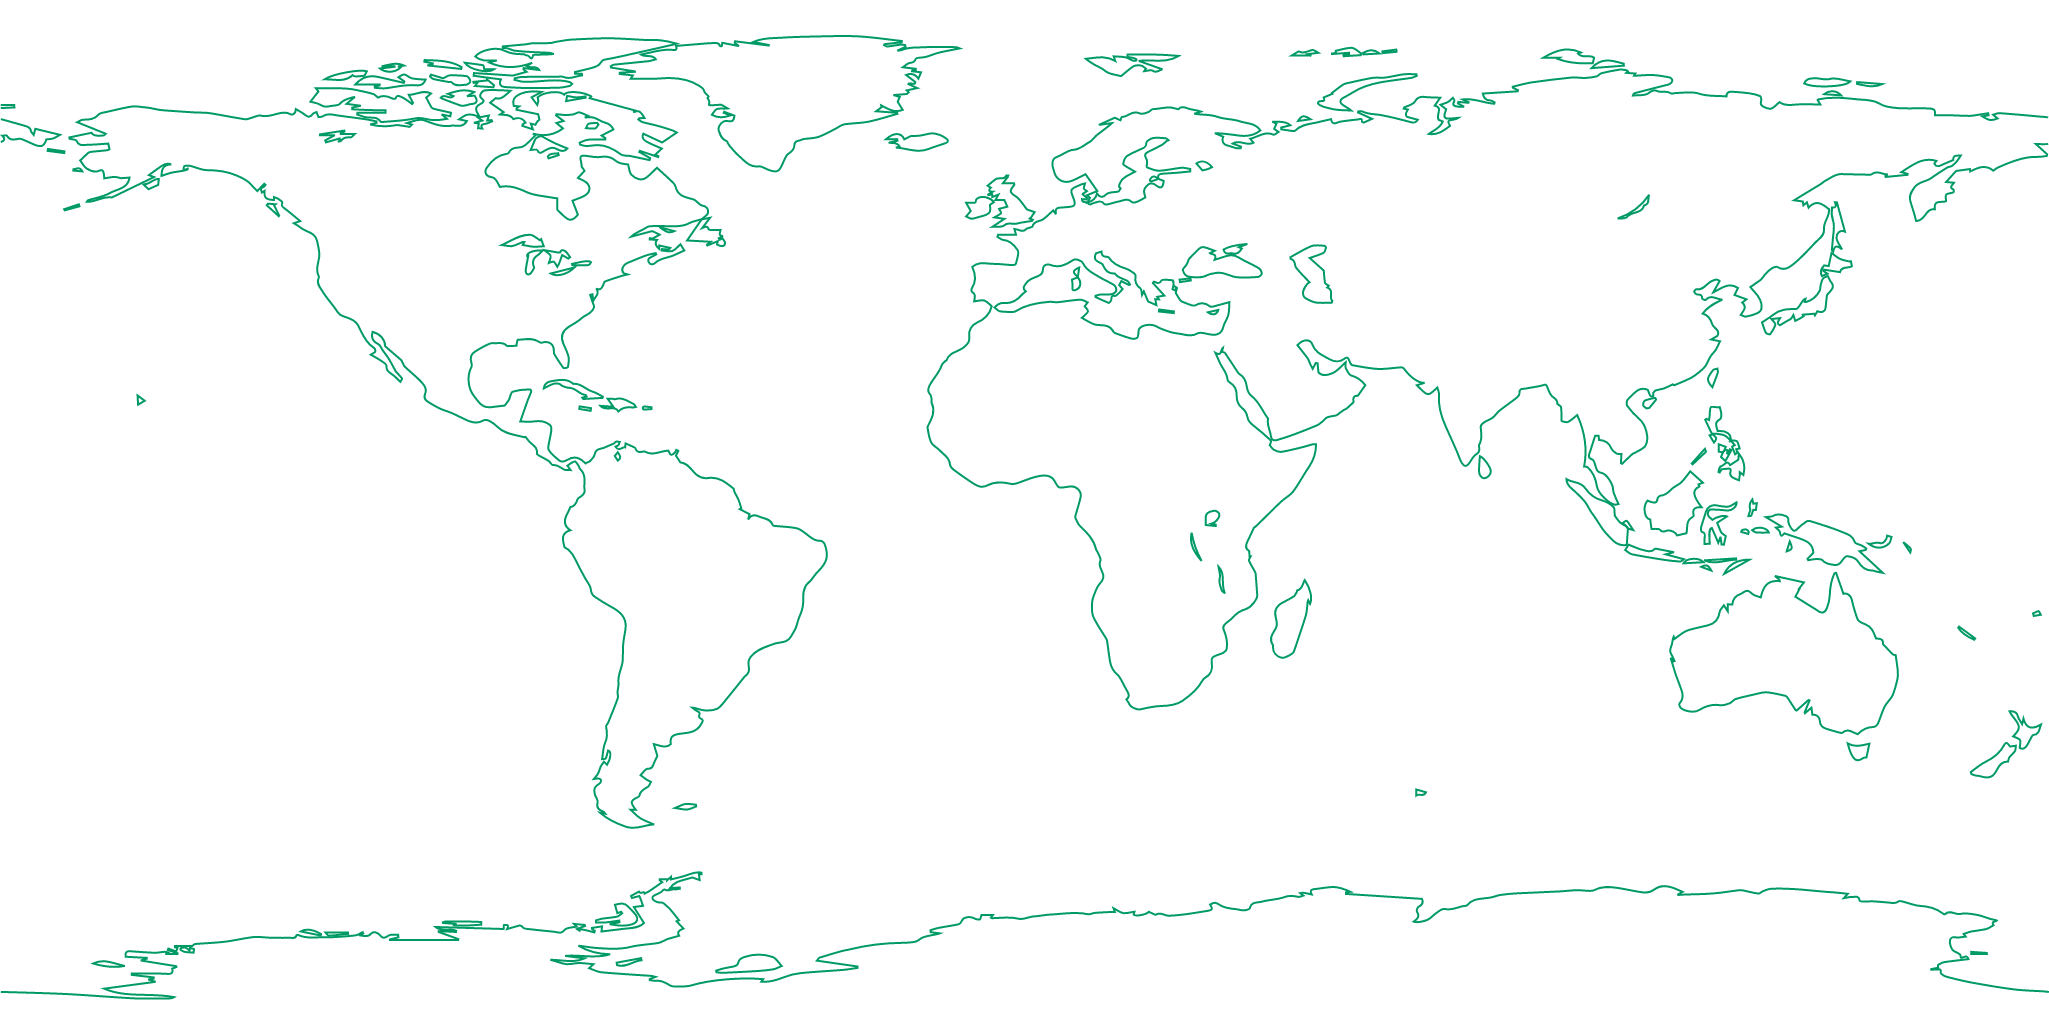
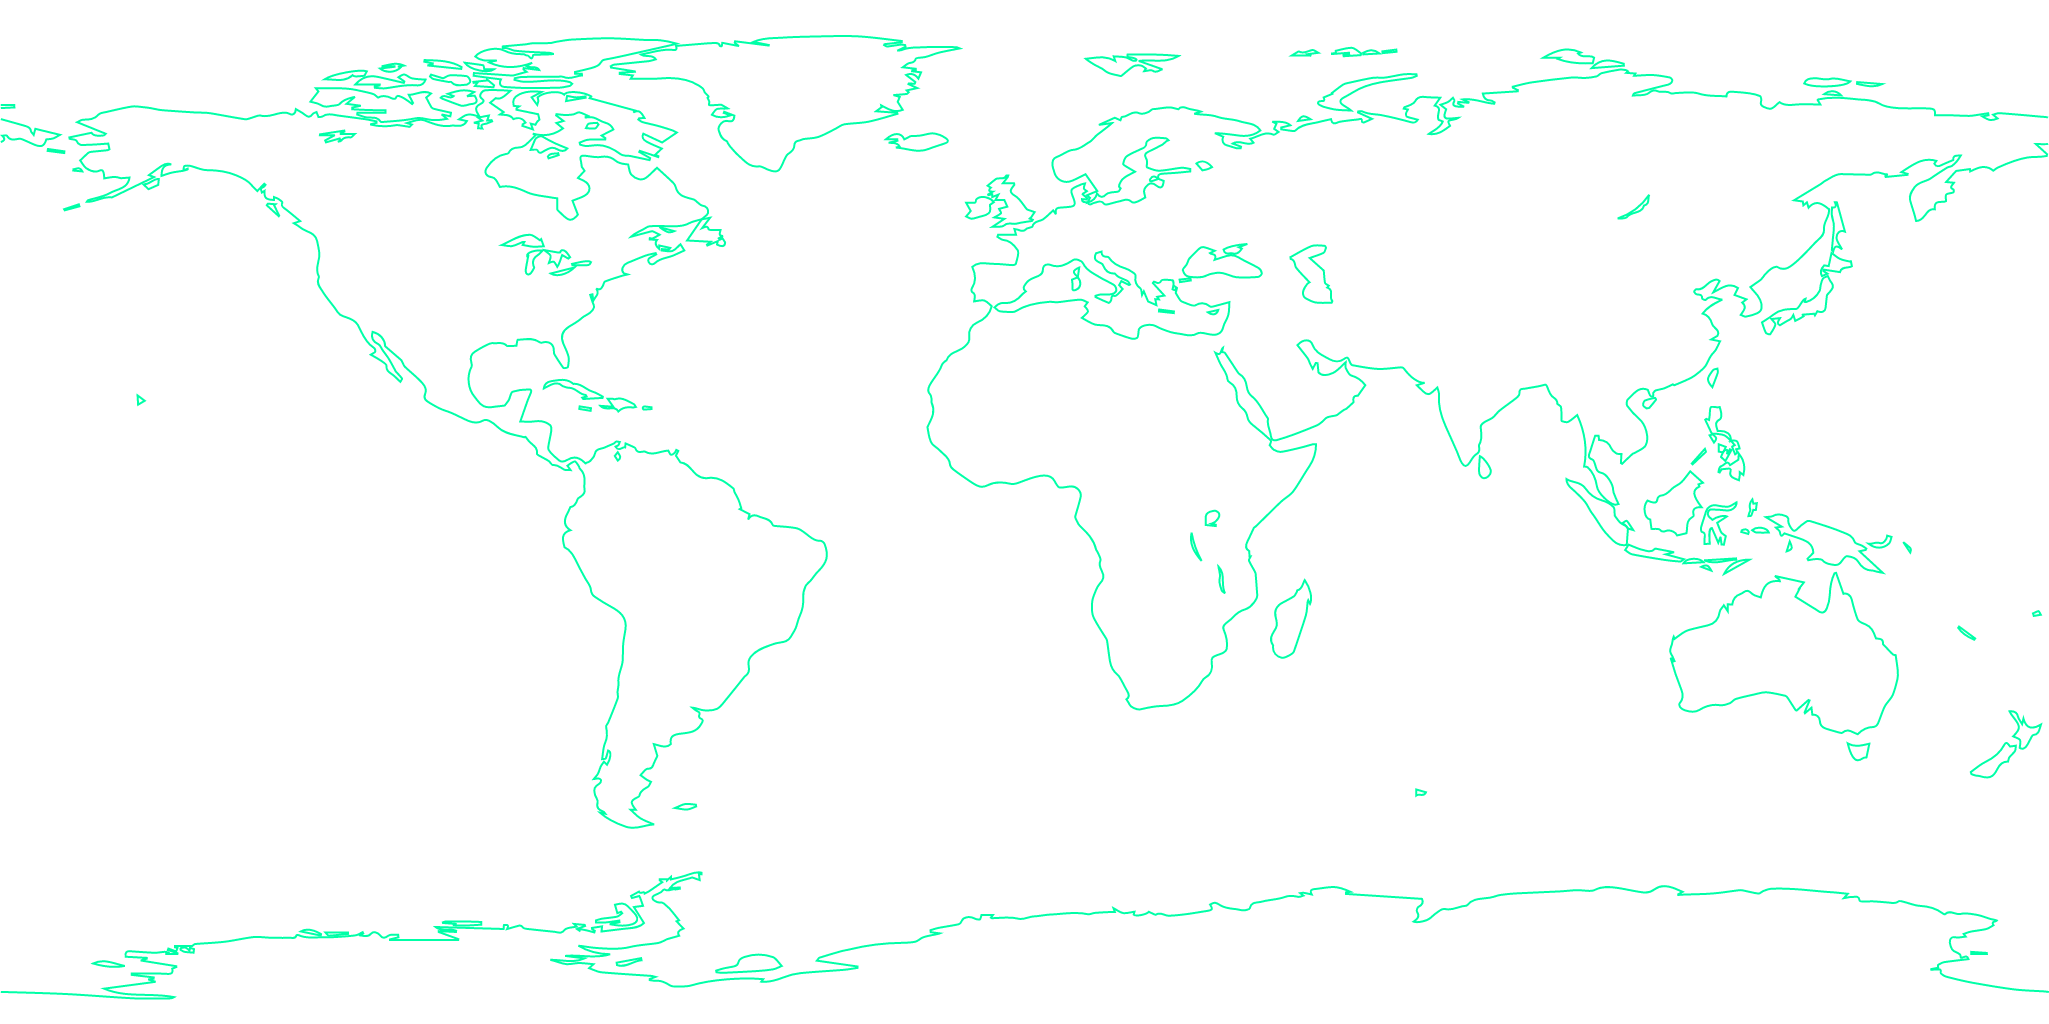
待调整卫星线的透明度

diff --git a/base-earth/earth.html b/base-earth/earth.html
@@ -56,8 +56,10 @@
       baseLightBar,
       lightBarParticlesTexture
     } from "../lib/lightBar.js";
-    import {geographicToVector, getSphereHeightPoints,
-      addCircle, moonLine, addTexturePoints} from "./earthLib.js";
+    import {
+      geographicToVector, getSphereHeightPoints,
+      addCircle, moonLine, addTexturePoints
+    } from "./earthLib.js";
 
     var camera, scene, renderer, geometry, secondScene;
     var controls;
@@ -87,6 +89,7 @@
     var R = 200; // 地球半径
     var outGap = 30; // 内外球体之间的距离
     let moonGroup = new THREE.Group();
+    let pointsOfMoonline = [];
     var range = 1000; //粒子运动边界
     let circleNum = 0; // 球体表面圆形的数量
     var COUNT = 300; // 遮罩层 单位数量
@@ -391,11 +394,10 @@
         .getElementById("glFullscreen")
         .appendChild(renderer.domElement); //将画布渲染器绑定到新增的dom节点上；
 
-      secondScene = new THREE.Scene();
       scene = new THREE.Scene();
       // scene.add(new THREE.GridHelper(10, 50))
       // fixme 添加雾化效果,
-      scene.fog = new THREE.Fog('#000000', 500, 1200);
+      scene.fog = new THREE.Fog('#000000', 550, 900);
 
       camera = new THREE.PerspectiveCamera(
         45,
@@ -411,7 +413,7 @@
       controls = baseControls(camera, renderer.domElement);
       controls.addEventListener("change", render);
       controls.minDistance = 550;
-      controls.maxDistance = 900;
+      controls.maxDistance = 550;
       controls.enabled = true;
       controls.autoRotateSpeed = 1;  // 自转速度
 
@@ -428,9 +430,9 @@
         earth = new THREE.Mesh(new THREE.SphereBufferGeometry(R, 50, 50), new THREE.MeshPhongMaterial({
           transparent: true,
           depthTest: false,
-          opacity: 0.8,
+          opacity: 1.0,
           shininess: 80,
-          specular: '#57FCF6',
+          specular: '#00FFA7',
           shadowSide: THREE.DoubleSide,
           // side: THREE.DoubleSide,
           // renderOrder: 0,
@@ -865,7 +867,7 @@
         HEXAGON_RADIUS = 5, // 底座的半径
         hexagon = new THREE.Object3D(),
         coneImg = 'images/lightray.png',
-        hexagonColor = ["#32f1b8", "#5df4f3", "#C3F433", "#f43521"];
+        hexagonColor = ["#FFF350", "#FFF350", "#FFFFFF", "#FFFFFF"];
 
       const countries = mark.marking;
 
@@ -1072,8 +1074,9 @@
       let rList = [250, 265, 268, 273];
       for (let i in rList) {
         let edg = Math.PI * i / 4;
-        let circle = moonLine(rList[i], edg)
-        moonGroup.add(circle)
+        let result = moonLine(rList[i], edg);
+        pointsOfMoonline.push(result[1])
+        moonGroup.add(result[0])
       }
       scene.add(moonGroup)
     }
@@ -1096,6 +1099,30 @@
 
       if (moonGroup) {
         moonGroup.rotateY(0.002)
+        let moonLines = moonGroup.children;
+        // console.log(moonLines)
+        // console.log(pointsOfMoonline)
+        for (let index in pointsOfMoonline) {
+          let Points = pointsOfMoonline[index];
+          let minDist = 8000;
+          for (let i = 0; i < (Points.length) / 3; i++) {
+            let x = Points[i], y = Points[i+1], z = Points[i+2];
+            // console.log('p', p)
+            let dist = Math.sqrt((x - 450) * (x - 450) + (y - 450) * (y - 450) + (z - 450) * (z - 450));
+            // console.log(dist)
+            if (dist < minDist) {
+              minDist = dist
+            }
+          }
+          // console.log(minDist)
+          let opa = 1.0;
+          if (minDist < 800) {
+            opa = (minDist - 250) / 800
+          }
+          console.log(index, opa)
+          moonLines[index].material.opacity = opa
+        }
+        // moonLines.forEach(line => line.material.opacity -=0.02)
       }
 
       //飞线动画

diff --git a/base-earth/earthLib.js b/base-earth/earthLib.js
@@ -71,7 +71,7 @@ let moonLine = function (R, edg) {
   line.rotateX(Math.random() * edg);
   line.rotateZ(Math.random() * edg);
   // moonItem(points, pointNum);
-  return line
+  return [line, points]
 };
 
 // let moonItem = function (arcPoints, num = 100) {
@@ -106,7 +106,7 @@ let addTexturePoints = function (R) {
   let earthParticles = new THREE.Object3D();
   // 必须先创建一个节点, 作为canvas的画板, 绘制点
   const earthImg = document.createElement('img');
-  earthImg.src = 'images/earthSpec.png';
+  earthImg.src = 'images/blackWhiteMap.png';
   // 图片加载后,再绘制图片
   earthImg.onload = () => {
     let earthCanvas = document.createElement('canvas'),
@@ -213,6 +213,10 @@ let addTexturePoints = function (R) {
     }
   };
   return earthParticles
+}
+
+let computeDis = function () {
+
 }
 
 export {geographicToVector, getSphereHeightPoints, addCircle, moonLine, addTexturePoints}
